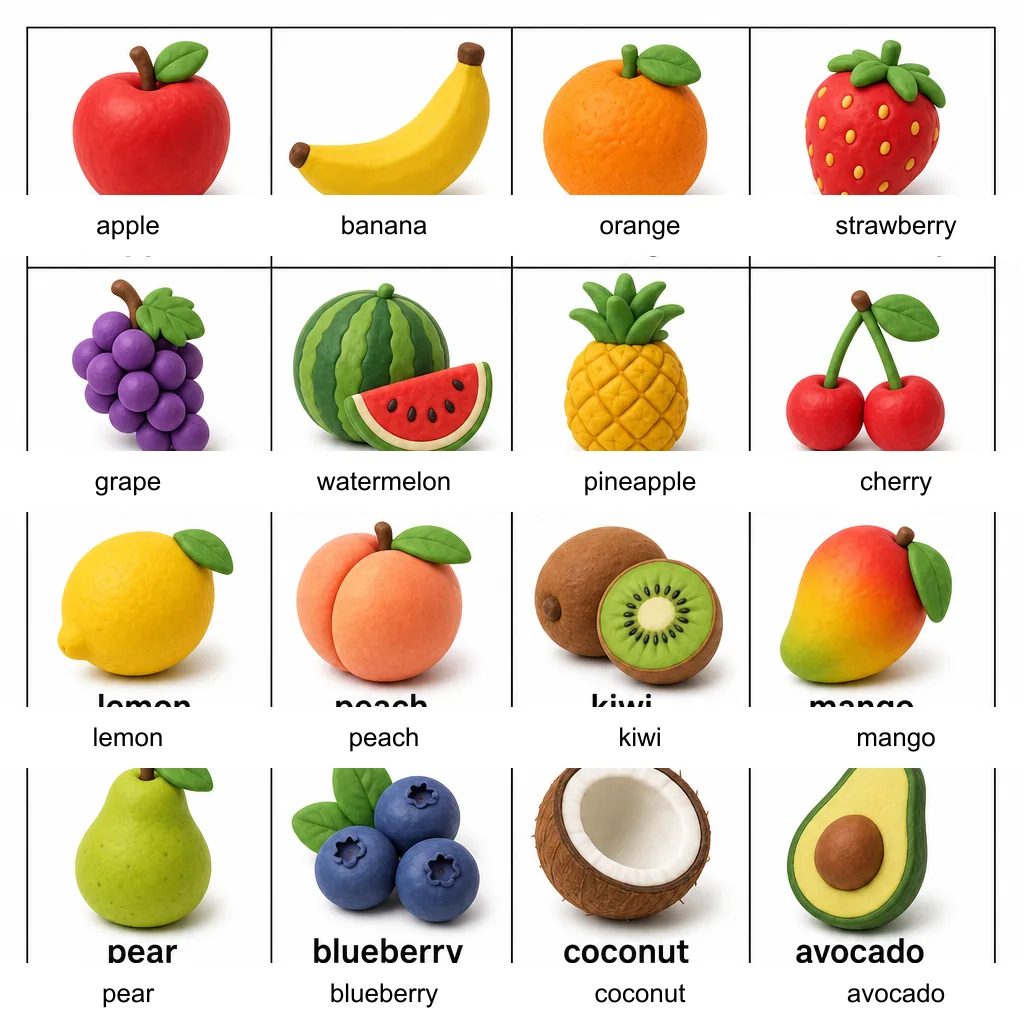
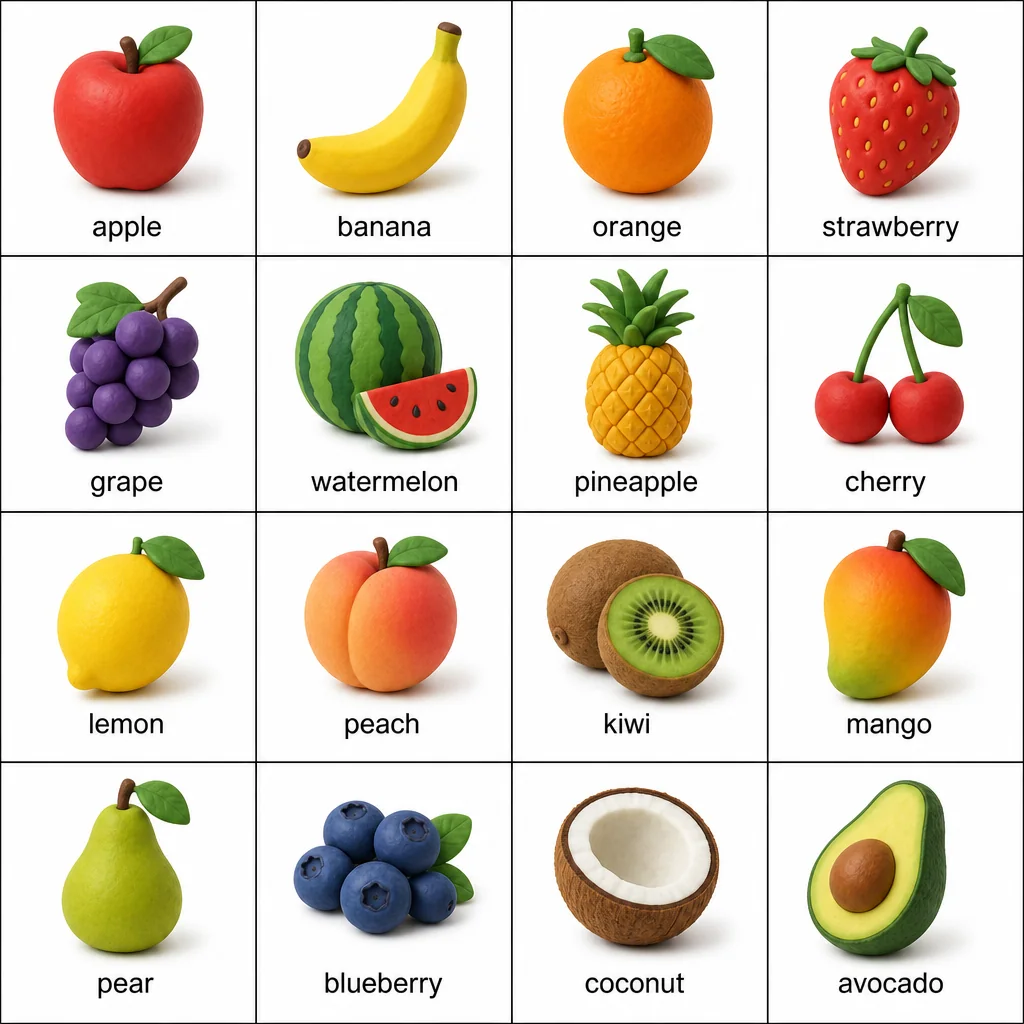
Ship all 36 native-labeled fruit grids (no text overlay).
Regenerate every style as a full 4x4 with baked-in plain black captions and compress to WebP without post-labeling.

diff --git a/scripts/compress-fruit-grids.js b/scripts/compress-fruit-grids.js
@@ -1,0 +1,54 @@
+/**
+ * Convert fruit-grid PNGs to WebP WITHOUT modifying labels.
+ * Usage: node scripts/compress-fruit-grids.js [inputDir] [outputDir]
+ */
+const fs = require('fs');
+const path = require('path');
+
+async function main() {
+  let sharp;
+  try {
+    sharp = require('sharp');
+  } catch (e) {
+    console.error('Install sharp: npm install --save-dev sharp');
+    process.exit(1);
+  }
+
+  const inputDir =
+    process.argv[2] ||
+    path.join(
+      process.env.USERPROFILE || '',
+      '.cursor',
+      'projects',
+      'c-Users-cramp-Projects-GridParser',
+      'assets'
+    );
+  const outputDir =
+    process.argv[3] || path.join(__dirname, '..', 'assets', 'styles');
+
+  fs.mkdirSync(outputDir, { recursive: true });
+  const files = fs
+    .readdirSync(inputDir)
+    .filter((f) => /^fruit-grid-.+\.png$/i.test(f) && !/^fruit-grid-4x4\.png$/i.test(f));
+
+  if (!files.length) {
+    console.error('No fruit-grid-*.png in', inputDir);
+    process.exit(1);
+  }
+
+  for (const file of files) {
+    const input = path.join(inputDir, file);
+    const webp = path.join(outputDir, file.replace(/\.png$/i, '.webp'));
+    await sharp(input)
+      .resize(1024, 1024, { fit: 'inside', withoutEnlargement: true })
+      .webp({ quality: 84, effort: 5 })
+      .toFile(webp);
+    console.log(file, '->', path.basename(webp));
+  }
+  console.log('Done:', files.length, '(labels untouched)');
+}
+
+main().catch((err) => {
+  console.error(err);
+  process.exit(1);
+});
